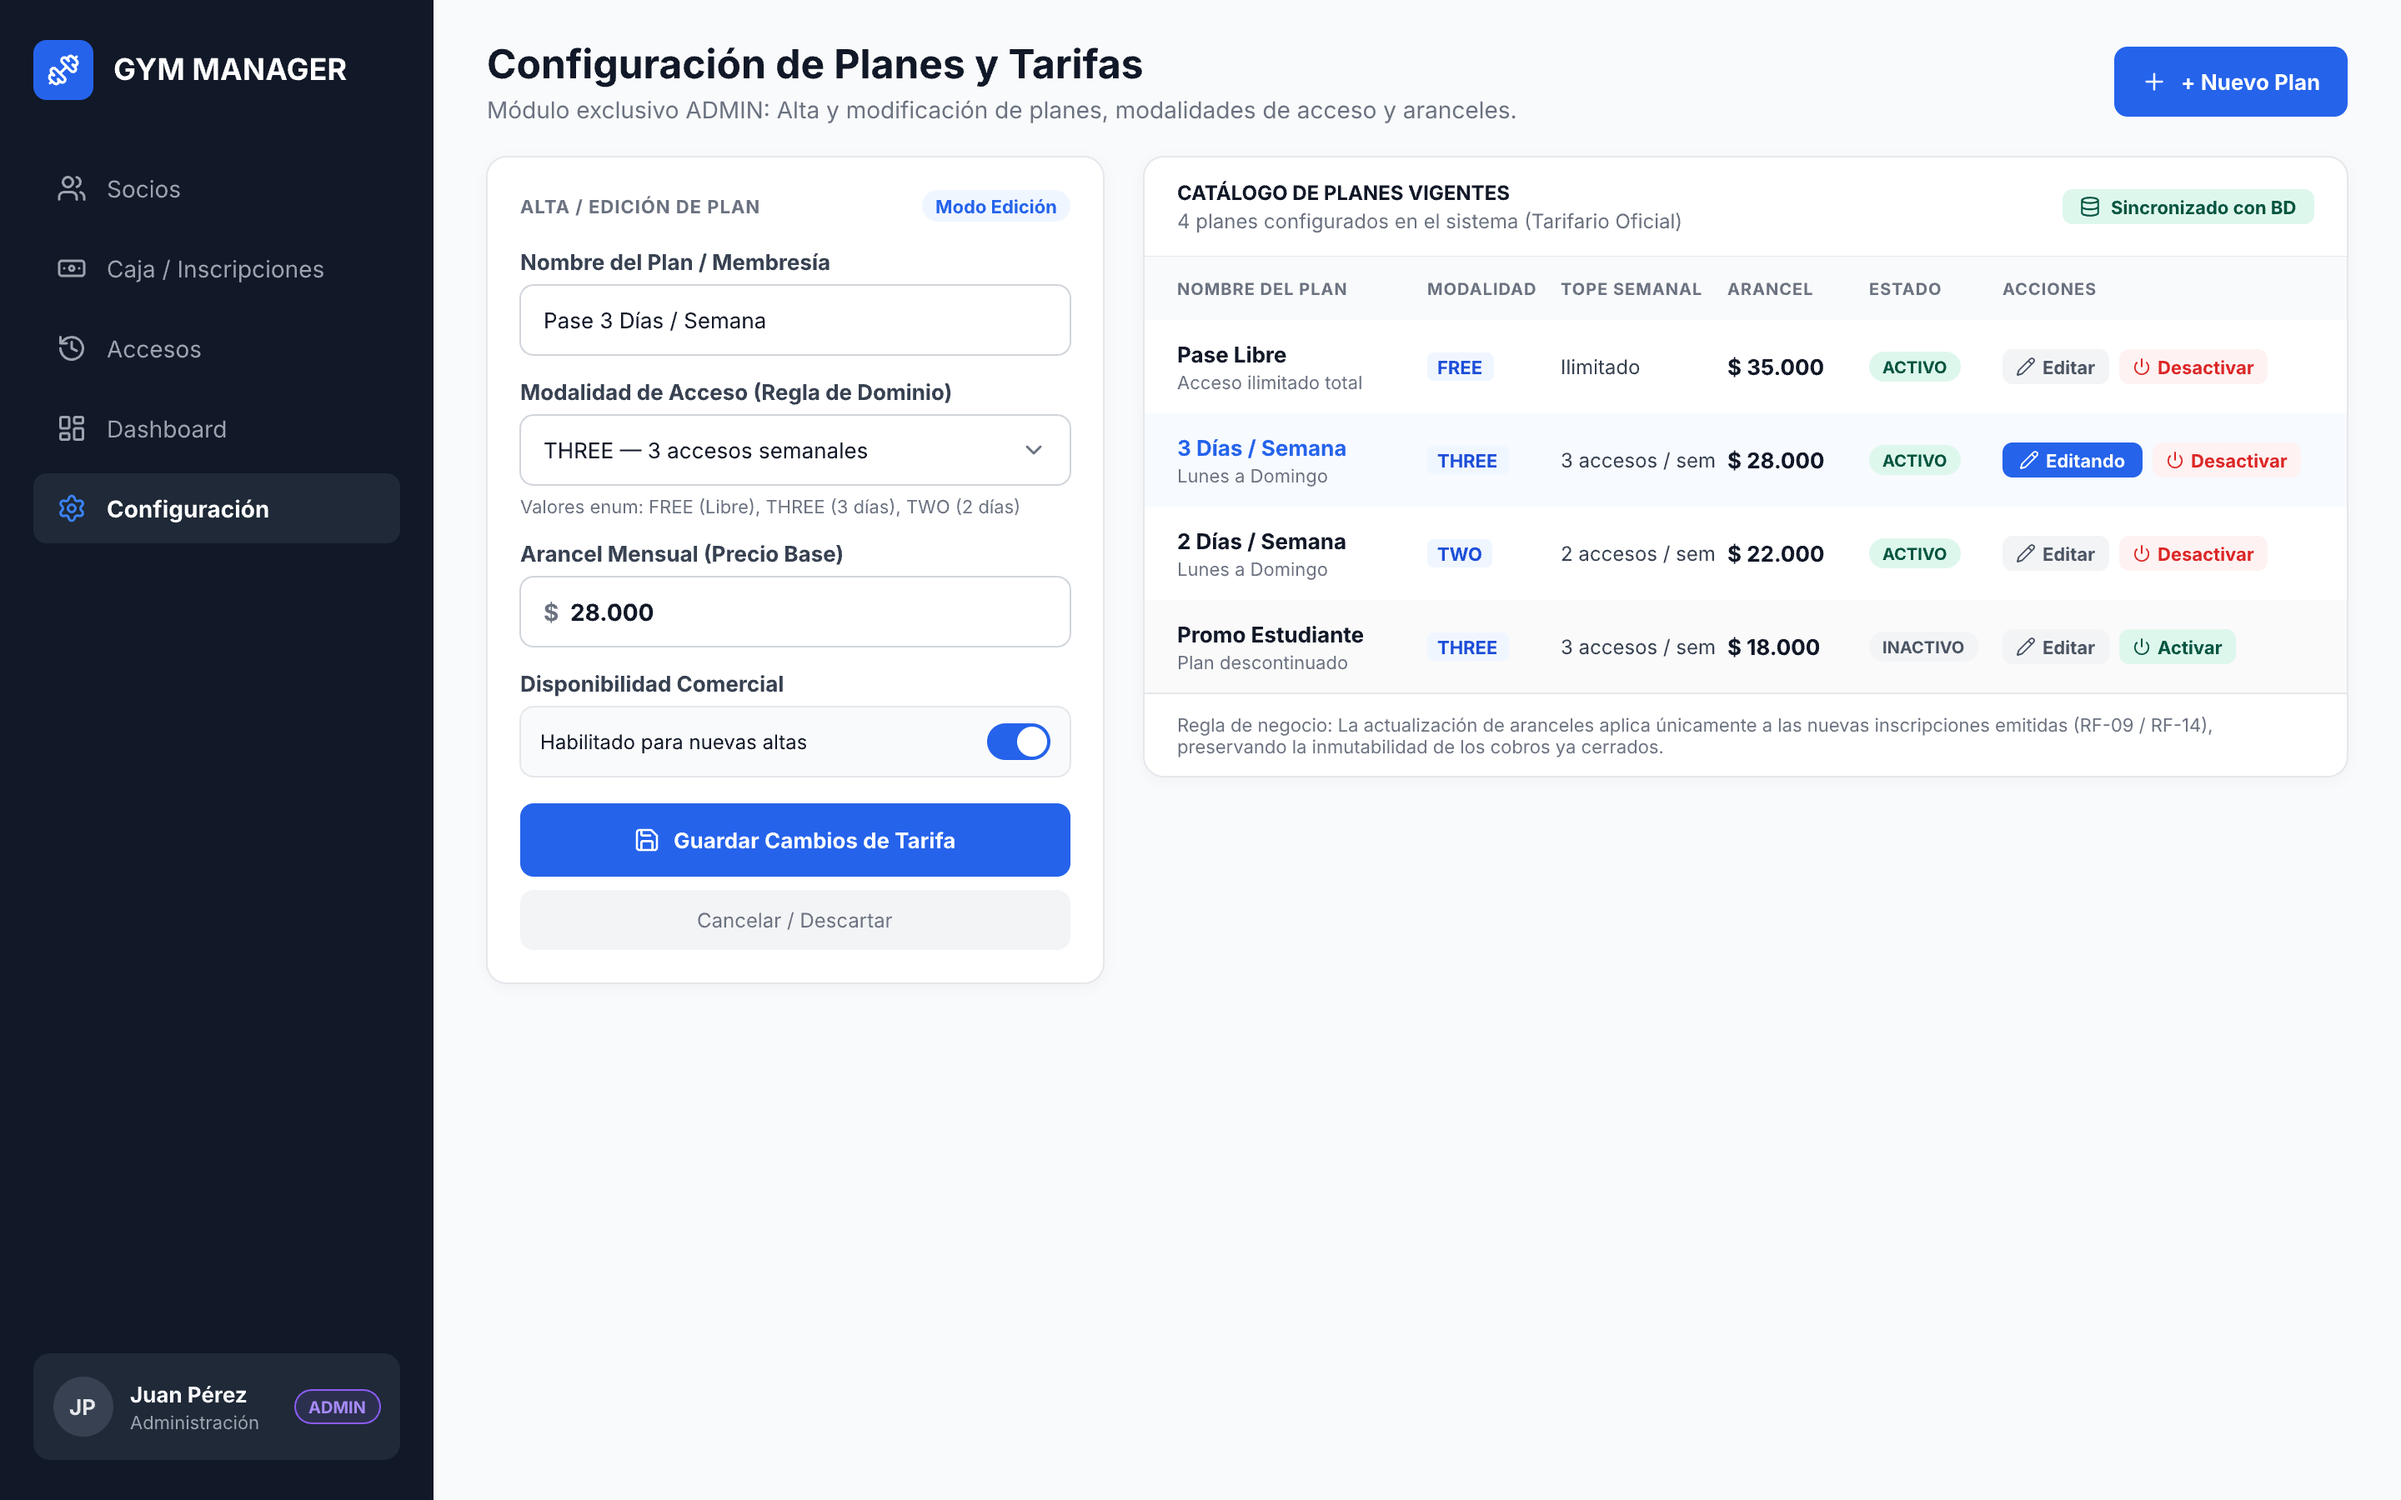
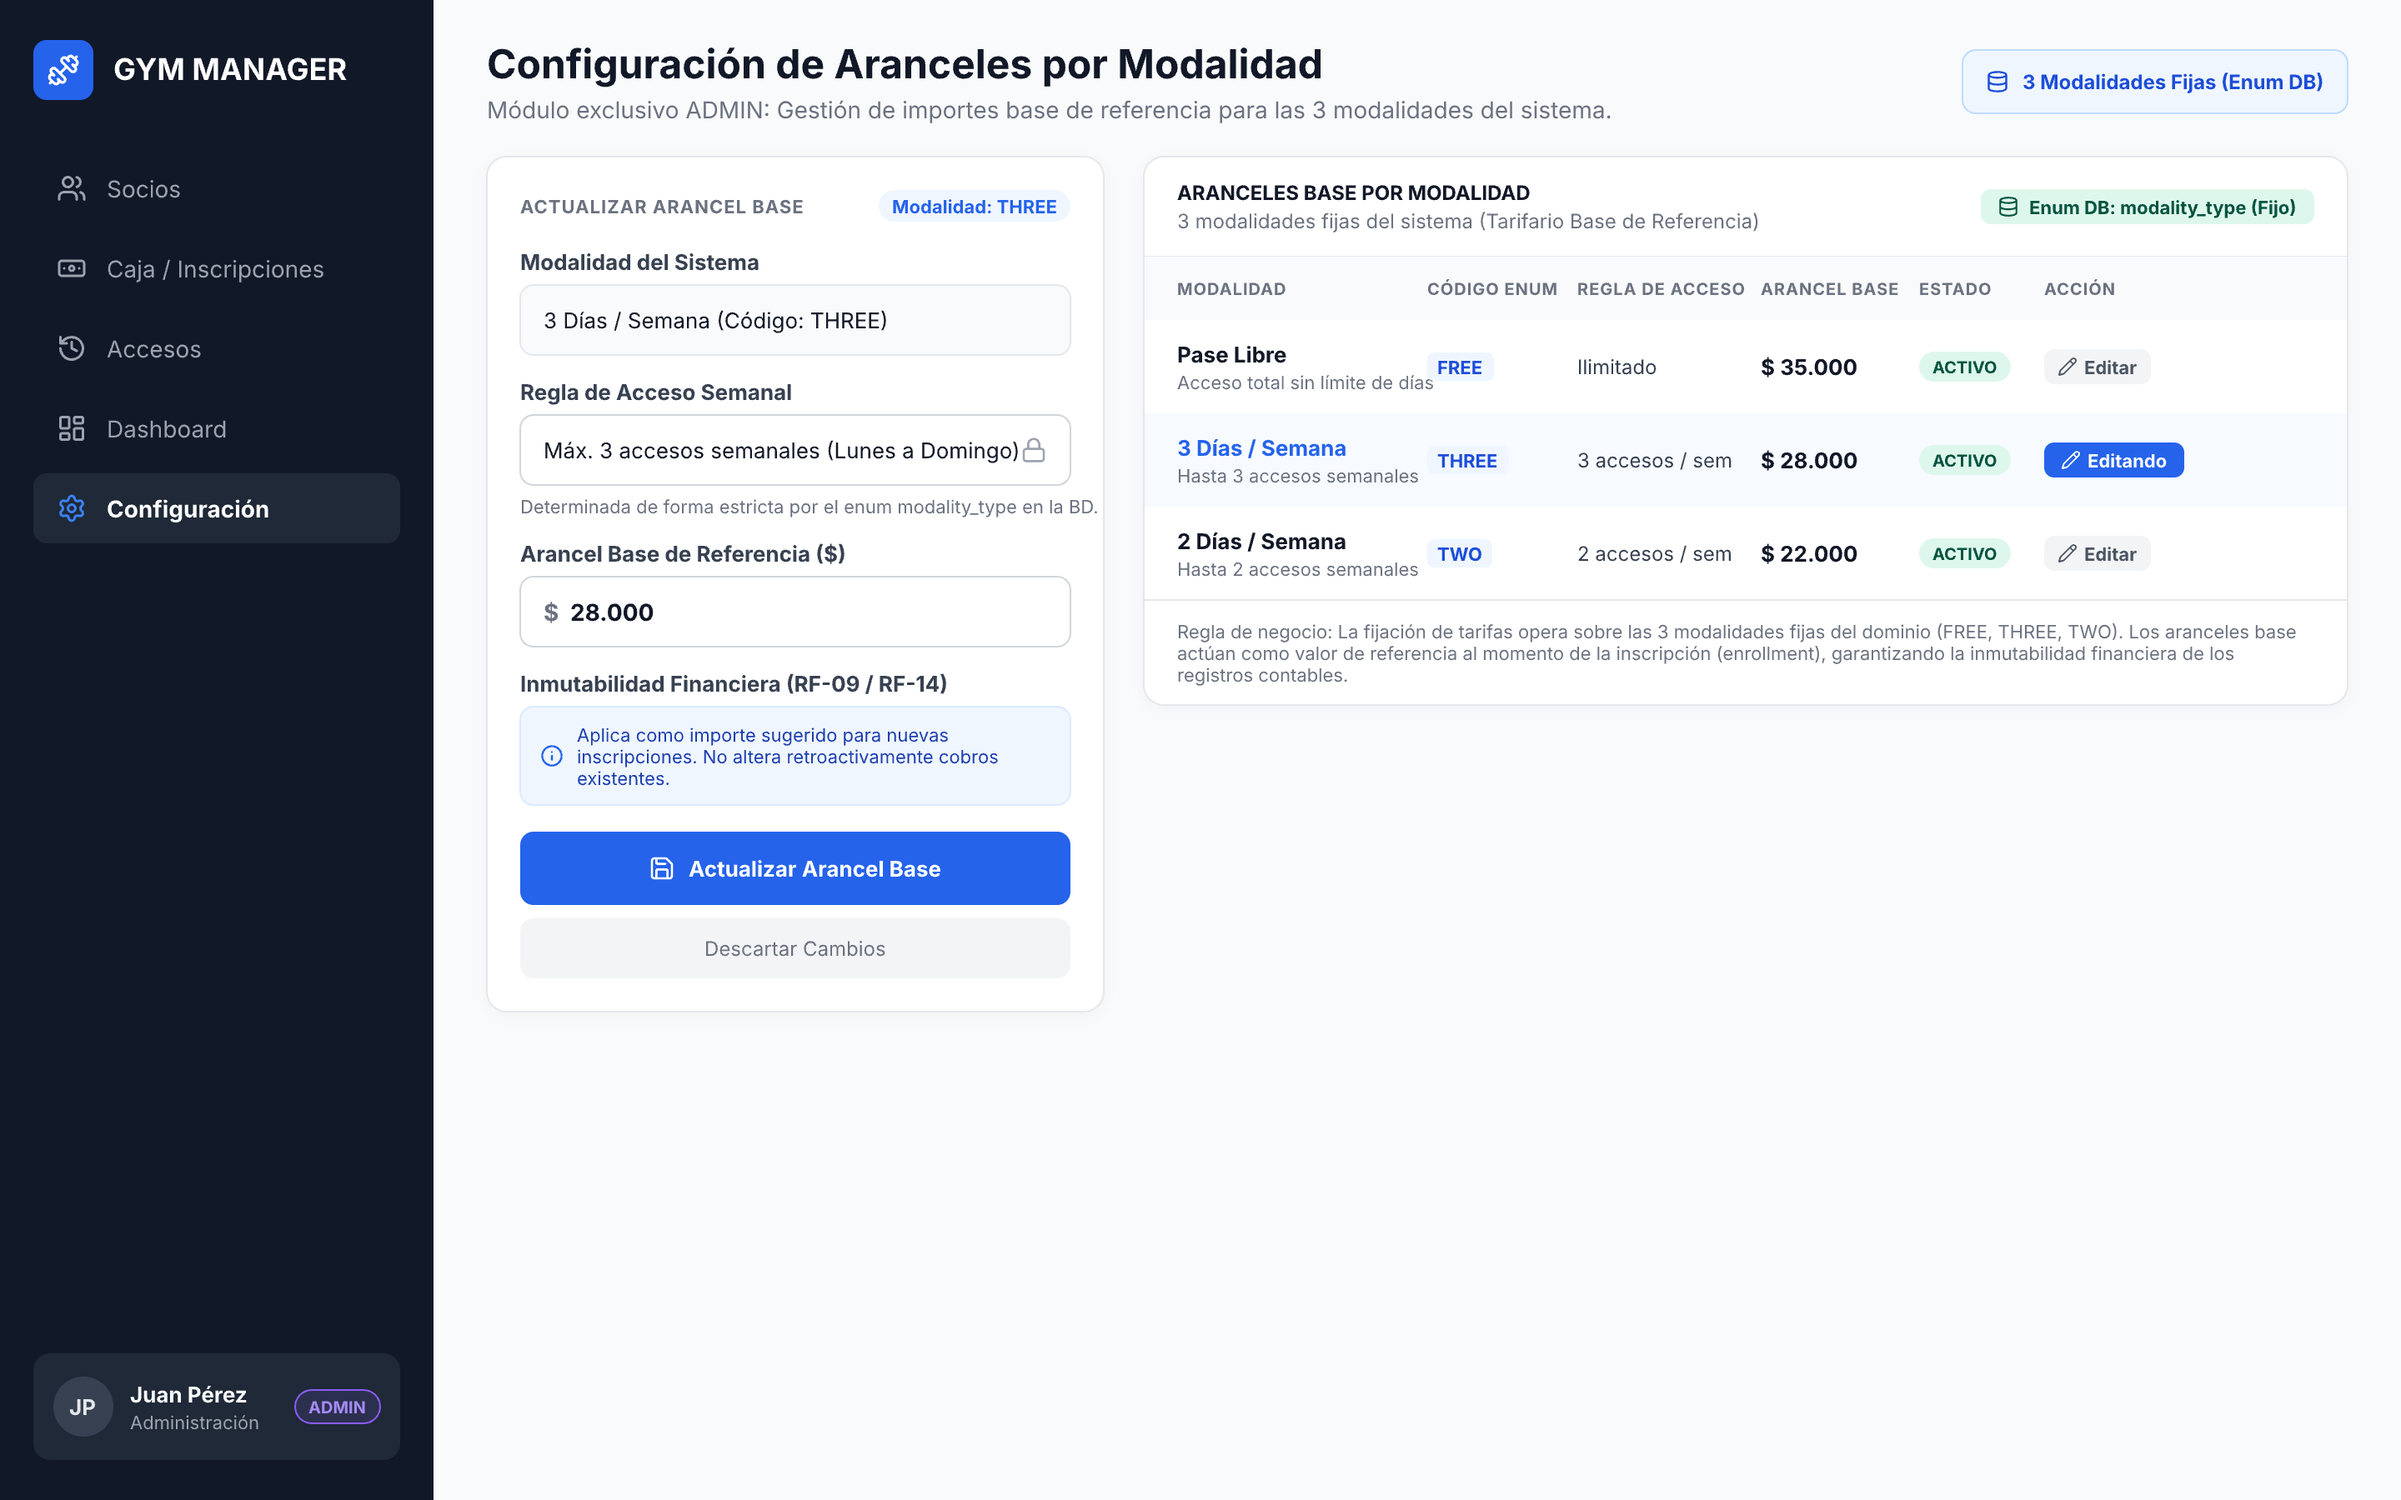
docs(mockup): update fee configuration and access modalities screen

diff --git a/docs/mockup.md b/docs/mockup.md
@@ -140,18 +140,21 @@ Diseñada para la supervisión operativa y gerencial (acceso completo para `ADMI
 
 ---
 
-### Pantalla 5: Configuración de Planes y Modalidades (Exclusivo ADMIN)
+### Pantalla 5: Configuración de Aranceles por Modalidad (Exclusivo ADMIN)
 
-Módulo de administración tarifaria con acceso restringido para usuarios con rol `ADMIN`.
+Módulo de administración tarifaria con acceso restringido para usuarios con rol `ADMIN`. Bajo la arquitectura de dominio del sistema, las modalidades de acceso están fijadas de forma estricta por el tipo enumerado (`FREE`, `THREE`, `TWO`), por lo que no existe un catálogo dinámico ni creación de planes arbitrarios. El administrador utiliza este panel para ajustar los aranceles base de referencia.
 
-- **Listado de Planes del Gimnasio:** Visualización de planes vigentes, precios actualizados y límite semanal de accesos.
-- **Formulario de Alta / Modificación de Planes:**
-  - Nombre del plan.
-  - Modalidad asociada (`FREE`, `THREE`, `TWO`).
-  - Arancel mensual.
-  - Estado de vigencia (activo / deshabilitado para nuevas inscripciones).
+- **Catálogo de Modalidades y Aranceles:**
+  - Visualización de las 3 modalidades del dominio (`Pase Libre`, `3 Días / Semana`, `2 Días / Semana`).
+  - Código enum en base de datos (`modality_type`).
+  - Regla de acceso y tope semanal (acceso ilimitado, 3 días o 2 días semanales).
+  - Arancel base de referencia actual y estado activo.
+- **Panel de Ajuste de Arancel de Referencia:**
+  - Selección de la modalidad fija a configurar.
+  - Actualización del importe base sugerido para nuevas inscripciones.
+  - Regla de inmutabilidad financiera (RF-09 / RF-14): los cambios de arancel aplican exclusivamente hacia adelante como valor de referencia al momento de inscribir socios (`enrollment`), garantizando que los cobros ya efectuados y suscripciones previas permanezcan inmutables.
 
-![Configuración de Planes y Tarifas](./mockups/img/pantalla_5_configuracion.png)
+![Configuración de Aranceles por Modalidad](./mockups/img/pantalla_5_configuracion.png)
 ---
 
 ## 3. Formato de Entregables y Estructura en el Repositorio
